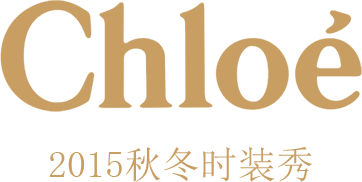
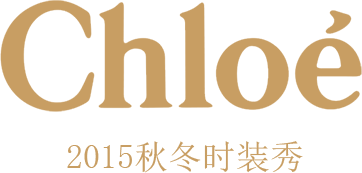
loading尺寸修改

diff --git a/css/main.css b/css/main.css
@@ -260,22 +260,22 @@ p{
 }
 
 .loading-logo{
-	width:260px;
+	width:200px;
 	height: 200px;
 	background: url("../images/logo-mask.png") left center no-repeat;
-	background-size: 260px auto;
+	background-size: 200px auto;
 	display:inline-block;
 	position:absolute;
 	left: 50%;
 	top:50%;
-	margin: -100px 0 0 -130px;
+	margin: -100px 0 0 -100px;
 }
 
 .loading-mask{
 	width:0;
 	height: 200px;
 	background: url("../images/loading.png") left center no-repeat;
-	background-size: 260px auto;
+	background-size: 200px auto;
 	display:inline-block;
 	position:absolute;
 	left: 0;
